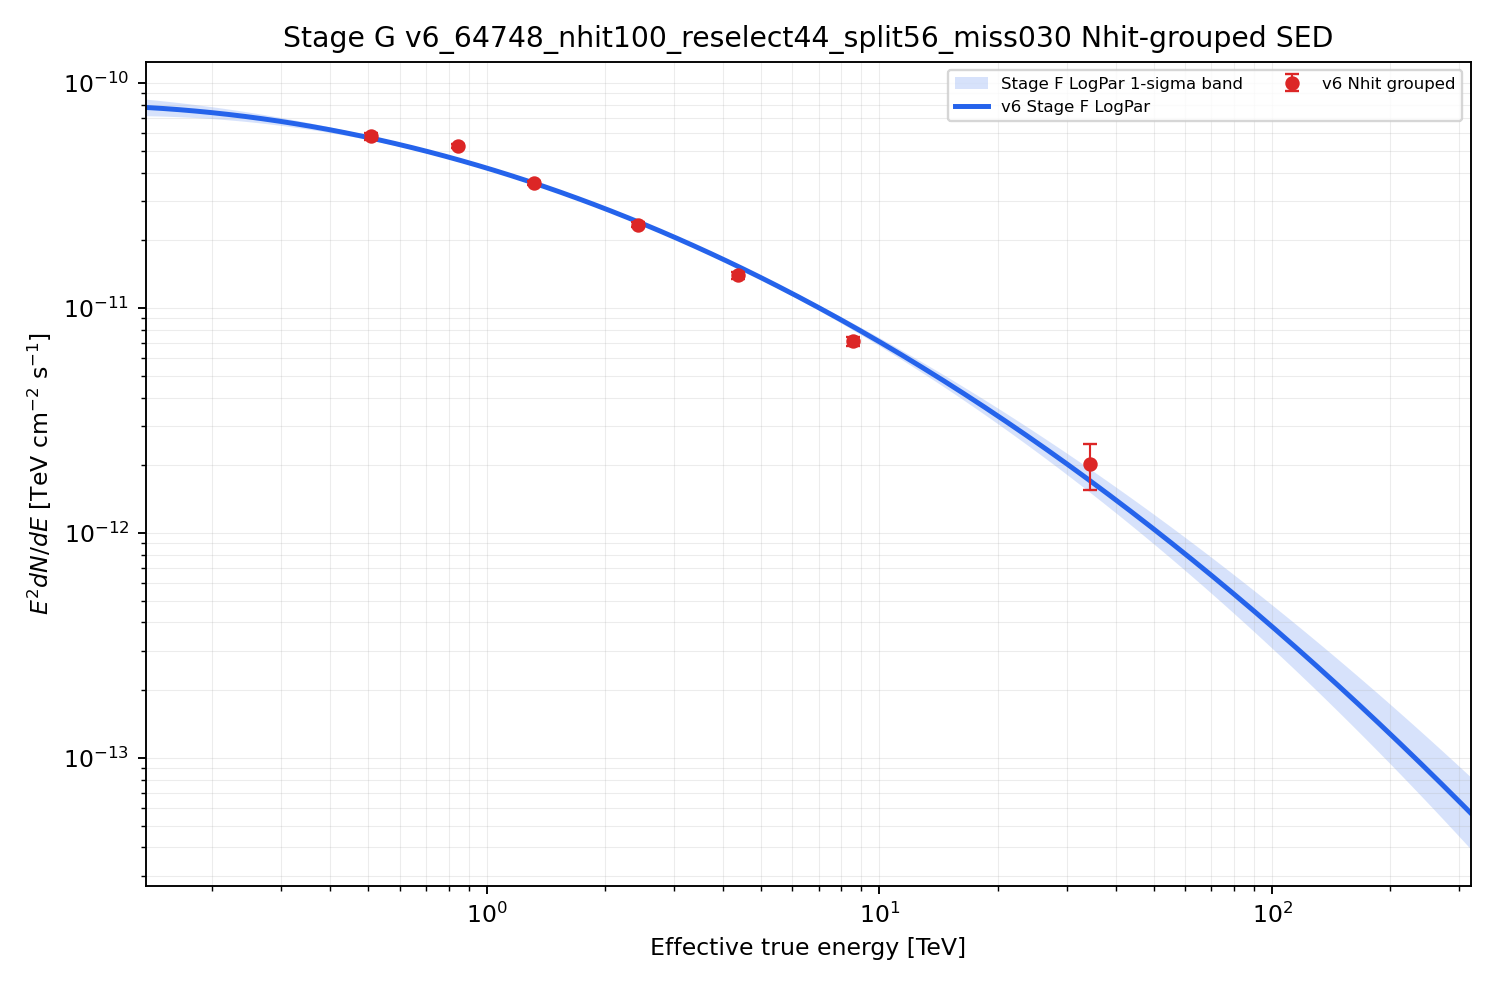
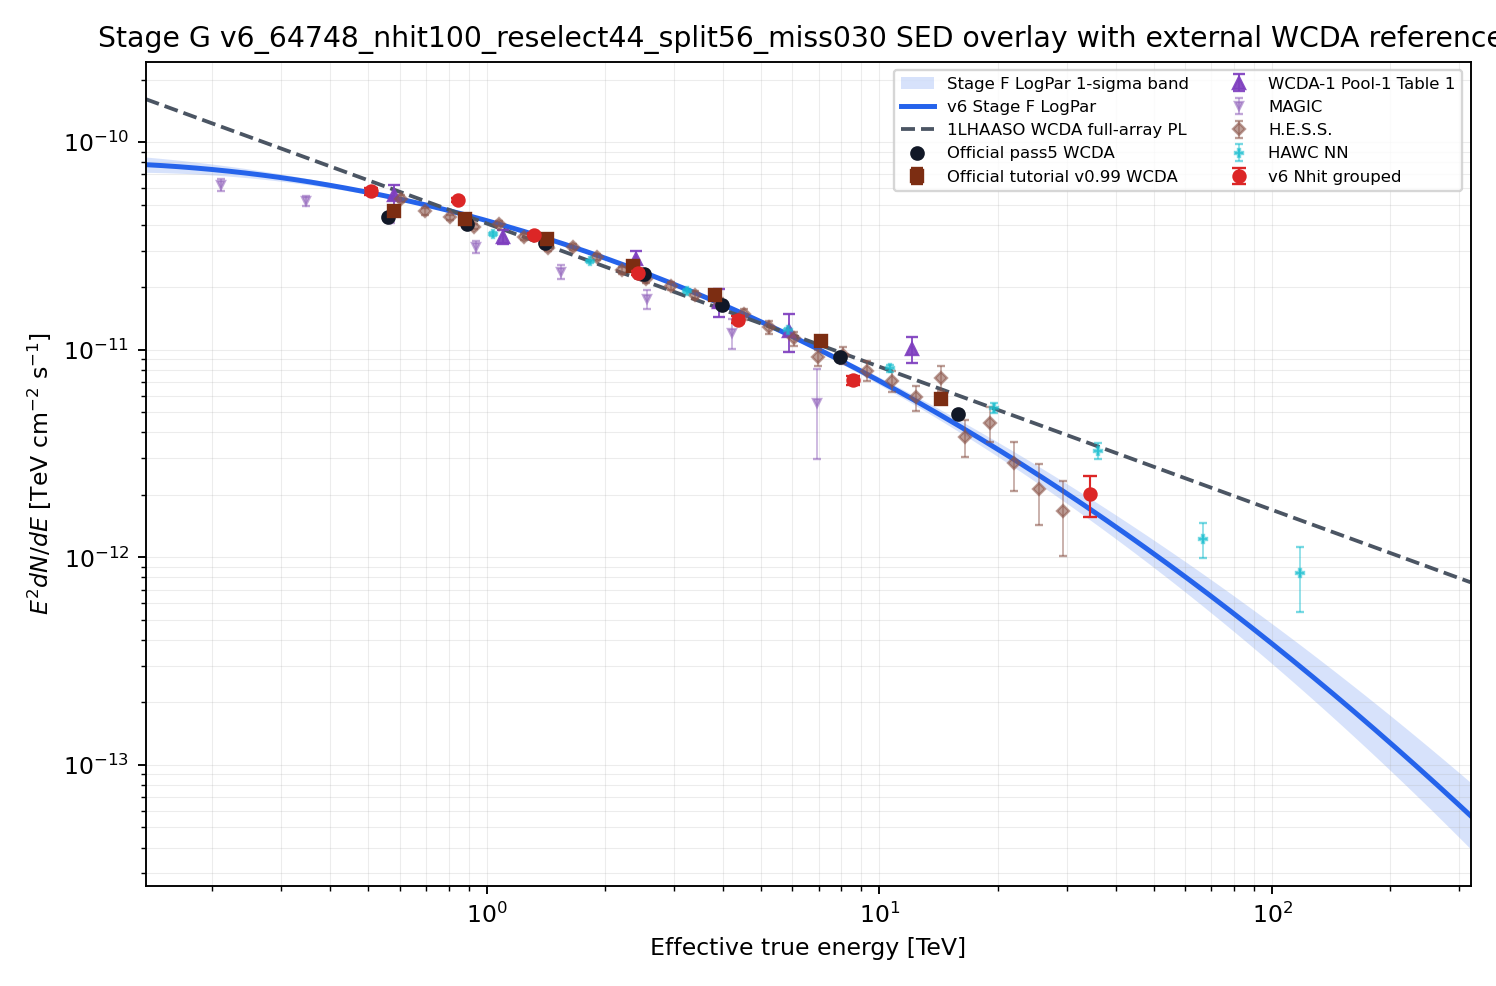
Restore external references in v6 Nhit SED plot

diff --git a/apply/report/crab_sed_v6_64748_nhit100_reselect44_split56_miss030_stage_a_to_g_report.html b/apply/report/crab_sed_v6_64748_nhit100_reselect44_split56_miss030_stage_a_to_g_report.html
@@ -97,7 +97,7 @@
   <section>
     <h2>Stage A-B-D-E Diagnostics</h2>
     <p>Stage A nominal response is <code>primary_thrown_response</code>; Stage F/G use <code>primary_thrown_aperture_conditioned_response</code>. Stage B wrote 91 PSF rows. The theta grid shows each cell's raw <code>mc_weight</code>-normalized distribution before Crab reweighting; orange shading marks Crab-positive theta bins without MC support, and each panel reports the corresponding missing probability mass. Pale green panels mark the 44 cells used by Stage F/G.</p>
-    <div class="figgrid"><figure class="figure"><img src="../output/stage_b_v6_64748_nhit100_reselect44_split56_miss030/runs/v6_64748_nhit100_reselect44_split56_miss030_stage_b_psf/psf_r_opt_deg_grid.png" alt="Stage B r_opt by cell"><figcaption>Stage B r_opt by cell</figcaption></figure><figure class="figure"><img src="../output/stage_b_v6_64748_nhit100_reselect44_split56_miss030/runs/v6_64748_nhit100_reselect44_split56_miss030_stage_b_psf/psf_effective_events_grid.png" alt="Stage B effective events by cell"><figcaption>Stage B effective events by cell</figcaption></figure><figure class="figure"><img src="assets/v6-64748-nhit100-reselect44-split56-miss030/v6_64748_nhit100_reselect44_split56_miss030_stage_b_raw_theta_profiles.png" alt="Stage B raw normalized MC theta distributions; green panels enter the fit"><figcaption>Stage B raw normalized MC theta distributions; green panels enter the fit</figcaption></figure><figure class="figure"><img src="assets/v6-64748-nhit100-reselect44-split56-miss030/v6_64748_nhit100_reselect44_split56_miss030_stage_b_radial_psf_profiles_fit_shaded.png" alt="Stage B radial PSF profiles; green panels enter the fit"><figcaption>Stage B radial PSF profiles; green panels enter the fit</figcaption></figure><figure class="figure"><img src="../output/stage_d_v6_64748_nhit100_reselect44_split56_miss030_annnorm/runs/v6_64748_nhit100_reselect44_split56_miss030_stage_d_annnorm/roi_excess_grid.png" alt="Stage D ROI excess map grid"><figcaption>Stage D ROI excess map grid</figcaption></figure><figure class="figure"><img src="../output/stage_d_v6_64748_nhit100_reselect44_split56_miss030_annnorm/runs/v6_64748_nhit100_reselect44_split56_miss030_stage_d_annnorm/annulus_residual_grid.png" alt="Stage D annulus residuals"><figcaption>Stage D annulus residuals</figcaption></figure><figure class="figure"><img src="../output/stage_e_v6_64748_nhit100_reselect44_split56_miss030_containment1_annnorm/runs/v6_64748_nhit100_reselect44_split56_miss030_stage_e_containment1_annnorm/formal_sigma_grid.png" alt="Stage E formal sigma grid"><figcaption>Stage E formal sigma grid</figcaption></figure><figure class="figure"><img src="../output/stage_e_v6_64748_nhit100_reselect44_split56_miss030_containment1_annnorm/runs/v6_64748_nhit100_reselect44_split56_miss030_stage_e_containment1_annnorm/on_background_grid.png" alt="Stage E on/background grid"><figcaption>Stage E on/background grid</figcaption></figure><figure class="figure"><img src="../output/stage_f_v6_64748_nhit100_reselect44_split56_miss030/runs/v6_64748_nhit100_reselect44_split56_miss030_stage_f/model_counts_vs_excess.png" alt="Stage F model counts versus excess"><figcaption>Stage F model counts versus excess</figcaption></figure><figure class="figure"><img src="../output/stage_f_v6_64748_nhit100_reselect44_split56_miss030/runs/v6_64748_nhit100_reselect44_split56_miss030_stage_f/pull_grid_logpar.png" alt="Stage F LogPar pull grid"><figcaption>Stage F LogPar pull grid</figcaption></figure><figure class="figure"><img src="assets/v6-64748-nhit100-reselect44-split56-miss030/v6_64748_nhit100_reselect44_split56_miss030_stage_g_external_overlay.png" alt="Stage G Nhit-grouped SED with v6 fit band"><figcaption>Stage G Nhit-grouped SED with v6 fit band</figcaption></figure><figure class="figure"><img src="../output/stage_g_v6_64748_nhit100_reselect44_split56_miss030/runs/v6_64748_nhit100_reselect44_split56_miss030_stage_g/sed_points_ratio.png" alt="Stage G SED ratio plot"><figcaption>Stage G SED ratio plot</figcaption></figure></div>
+    <div class="figgrid"><figure class="figure"><img src="../output/stage_b_v6_64748_nhit100_reselect44_split56_miss030/runs/v6_64748_nhit100_reselect44_split56_miss030_stage_b_psf/psf_r_opt_deg_grid.png" alt="Stage B r_opt by cell"><figcaption>Stage B r_opt by cell</figcaption></figure><figure class="figure"><img src="../output/stage_b_v6_64748_nhit100_reselect44_split56_miss030/runs/v6_64748_nhit100_reselect44_split56_miss030_stage_b_psf/psf_effective_events_grid.png" alt="Stage B effective events by cell"><figcaption>Stage B effective events by cell</figcaption></figure><figure class="figure"><img src="assets/v6-64748-nhit100-reselect44-split56-miss030/v6_64748_nhit100_reselect44_split56_miss030_stage_b_raw_theta_profiles.png" alt="Stage B raw normalized MC theta distributions; green panels enter the fit"><figcaption>Stage B raw normalized MC theta distributions; green panels enter the fit</figcaption></figure><figure class="figure"><img src="assets/v6-64748-nhit100-reselect44-split56-miss030/v6_64748_nhit100_reselect44_split56_miss030_stage_b_radial_psf_profiles_fit_shaded.png" alt="Stage B radial PSF profiles; green panels enter the fit"><figcaption>Stage B radial PSF profiles; green panels enter the fit</figcaption></figure><figure class="figure"><img src="../output/stage_d_v6_64748_nhit100_reselect44_split56_miss030_annnorm/runs/v6_64748_nhit100_reselect44_split56_miss030_stage_d_annnorm/roi_excess_grid.png" alt="Stage D ROI excess map grid"><figcaption>Stage D ROI excess map grid</figcaption></figure><figure class="figure"><img src="../output/stage_d_v6_64748_nhit100_reselect44_split56_miss030_annnorm/runs/v6_64748_nhit100_reselect44_split56_miss030_stage_d_annnorm/annulus_residual_grid.png" alt="Stage D annulus residuals"><figcaption>Stage D annulus residuals</figcaption></figure><figure class="figure"><img src="../output/stage_e_v6_64748_nhit100_reselect44_split56_miss030_containment1_annnorm/runs/v6_64748_nhit100_reselect44_split56_miss030_stage_e_containment1_annnorm/formal_sigma_grid.png" alt="Stage E formal sigma grid"><figcaption>Stage E formal sigma grid</figcaption></figure><figure class="figure"><img src="../output/stage_e_v6_64748_nhit100_reselect44_split56_miss030_containment1_annnorm/runs/v6_64748_nhit100_reselect44_split56_miss030_stage_e_containment1_annnorm/on_background_grid.png" alt="Stage E on/background grid"><figcaption>Stage E on/background grid</figcaption></figure><figure class="figure"><img src="../output/stage_f_v6_64748_nhit100_reselect44_split56_miss030/runs/v6_64748_nhit100_reselect44_split56_miss030_stage_f/model_counts_vs_excess.png" alt="Stage F model counts versus excess"><figcaption>Stage F model counts versus excess</figcaption></figure><figure class="figure"><img src="../output/stage_f_v6_64748_nhit100_reselect44_split56_miss030/runs/v6_64748_nhit100_reselect44_split56_miss030_stage_f/pull_grid_logpar.png" alt="Stage F LogPar pull grid"><figcaption>Stage F LogPar pull grid</figcaption></figure><figure class="figure"><img src="assets/v6-64748-nhit100-reselect44-split56-miss030/v6_64748_nhit100_reselect44_split56_miss030_stage_g_external_overlay.png" alt="Stage G SED overlay with v6 Nhit points, fit band, and external references"><figcaption>Stage G SED overlay with v6 Nhit points, fit band, and external references</figcaption></figure><figure class="figure"><img src="../output/stage_g_v6_64748_nhit100_reselect44_split56_miss030/runs/v6_64748_nhit100_reselect44_split56_miss030_stage_g/sed_points_ratio.png" alt="Stage G SED ratio plot"><figcaption>Stage G SED ratio plot</figcaption></figure></div>
   </section>
 
   <section>

diff --git a/apply/report/build_v6_64748_nhit100_highEplus1_report.py b/apply/report/build_v6_64748_nhit100_highEplus1_report.py
@@ -542,6 +542,10 @@ def ensure_stage_g_external_overlay(stage_f_meta: dict[str, Any], stage_g_meta: 
         STAGE_G / f"sed_points_{RUN_ID}_metadata.json",
         STAGE_G / f"sed_points_{RUN_ID}_summary.csv",
         STAGE_F / f"fit_{RUN_ID}_metadata.json",
+        STAGE_G / "external_crab_sed_references.csv",
+        STAGE_G / "wcda1_pool1_table1_reference.csv",
+        PASS5_CSV,
+        V099_CSV,
     ]
     existing_inputs = [path for path in input_paths if path.exists()]
     source_mtime = max(path.stat().st_mtime for path in existing_inputs)
@@ -575,6 +579,86 @@ def ensure_stage_g_external_overlay(stage_f_meta: dict[str, Any], stage_g_meta: 
         ax.fill_between(x, y_low, y_high, color="#2563eb", alpha=0.18, linewidth=0, label="Stage F LogPar 1-sigma band")
     ax.plot(x, y_model, color="#2563eb", lw=2.1, label="v6 Stage F LogPar")
 
+    ref = stage_g_meta.get("reference_spectrum") or {}
+    if ref:
+        ax.plot(
+            x,
+            sed_model_curve(
+                x,
+                "pl",
+                {"phi0": float(ref.get("phi0")), "gamma": float(ref.get("gamma"))},
+                float(ref.get("pivot_tev") or pivot),
+            ),
+            color="#4b5563",
+            lw=1.6,
+            ls="--",
+            label="1LHAASO WCDA full-array PL",
+        )
+
+    e_pass5, y_pass5 = pass5_points()
+    if e_pass5:
+        ax.plot(e_pass5, y_pass5, "o", ms=5.2, color="#111827", label="Official pass5 WCDA", zorder=4)
+
+    e_v099, y_v099, ylo_v099, yhi_v099 = v099_points()
+    if e_v099:
+        ax.errorbar(
+            e_v099,
+            y_v099,
+            yerr=[ylo_v099, yhi_v099],
+            fmt="s",
+            ms=4.9,
+            lw=0.9,
+            color="#7c2d12",
+            ecolor="#7c2d12",
+            capsize=2.4,
+            label="Official tutorial v0.99 WCDA",
+            zorder=4,
+        )
+
+    pool1_rows = read_csv_rows(STAGE_G / "wcda1_pool1_table1_reference.csv")
+    if pool1_rows:
+        ax.errorbar(
+            [float(row["emed_tev"]) for row in pool1_rows],
+            [float(row["E2_dnde"]) for row in pool1_rows],
+            yerr=[float(row["E2_dnde_err"]) for row in pool1_rows],
+            fmt="^",
+            color="#7f3fbf",
+            ecolor="#7f3fbf",
+            capsize=2.5,
+            ms=4.8,
+            lw=0.8,
+            label="WCDA-1 Pool-1 Table 1",
+            alpha=0.92,
+        )
+
+    external_styles = {
+        "magic_joint_crab": {"fmt": "v", "color": "#9467bd", "label": "MAGIC"},
+        "hess_2024_stereo": {"fmt": "D", "color": "#8c564b", "label": "H.E.S.S."},
+        "hawc_2019_nn": {"fmt": "P", "color": "#17becf", "label": "HAWC NN"},
+    }
+    external_rows = read_csv_rows(STAGE_G / "external_crab_sed_references.csv")
+    for dataset, style in external_styles.items():
+        selected = [
+            row
+            for row in external_rows
+            if row.get("dataset") == dataset
+            and str(row.get("is_upper_limit")).strip().lower() != "true"
+            and finite_float(row.get("energy_tev"))
+            and finite_float(row.get("e2_dnde"))
+        ]
+        if not selected:
+            continue
+        ax.errorbar(
+            [float(row["energy_tev"]) for row in selected],
+            [float(row["e2_dnde"]) for row in selected],
+            yerr=[finite_float(row.get("e2_dnde_err")) or 0.0 for row in selected],
+            capsize=1.9,
+            ms=3.8,
+            lw=0.65,
+            alpha=0.58,
+            **style,
+        )
+
     point_styles = {
         "nhit": {"fmt": "o", "color": "#dc2626", "label": "v6 Nhit grouped"},
     }
@@ -603,7 +687,7 @@ def ensure_stage_g_external_overlay(stage_f_meta: dict[str, Any], stage_g_meta: 
     ax.set_yscale("log")
     ax.set_xlabel("Effective true energy [TeV]")
     ax.set_ylabel(r"$E^2 dN/dE$ [TeV cm$^{-2}$ s$^{-1}$]")
-    ax.set_title(f"Stage G {RUN_ID} Nhit-grouped SED")
+    ax.set_title(f"Stage G {RUN_ID} SED overlay with external WCDA references")
     ax.grid(True, which="both", alpha=0.24, lw=0.45)
     ax.set_xlim(emin, emax)
     ax.legend(fontsize=7.0, ncol=2, frameon=True)
@@ -834,7 +918,7 @@ def main() -> None:
         (STAGE_E / "on_background_grid.png", "Stage E on/background grid"),
         (STAGE_F / "model_counts_vs_excess.png", "Stage F model counts versus excess"),
         (STAGE_F / "pull_grid_logpar.png", "Stage F LogPar pull grid"),
-        (STAGE_G_EXTERNAL_OVERLAY, "Stage G Nhit-grouped SED with v6 fit band"),
+        (STAGE_G_EXTERNAL_OVERLAY, "Stage G SED overlay with v6 Nhit points, fit band, and external references"),
         (STAGE_G / "sed_points_ratio.png", "Stage G SED ratio plot"),
     ]
     figure_html = "".join(figure(path, caption) for path, caption in expected_figures)

diff --git a/apply/devlog.md b/apply/devlog.md
@@ -6,7 +6,7 @@ Detailed design rationale belongs in `report/` or `docs/`. Authoritative history
 
 ---
 
-- **energy** · 2026-07-11 12:04 · [uncommitted] Restrict the v6 reselect44 Stage G SED overlay to Nhit-grouped points and the fitted LogPar band.
+- **energy** · 2026-07-11 12:04 · [uncommitted] Remove only v6 predE-grouped points from the reselect44 Stage G external-reference SED overlay.
 
 - **energy** · 2026-07-11 11:08 · [uncommitted] Archive the active v6 64748 model resolution, RMS, bias, loss, metrics, and training configuration.
 
